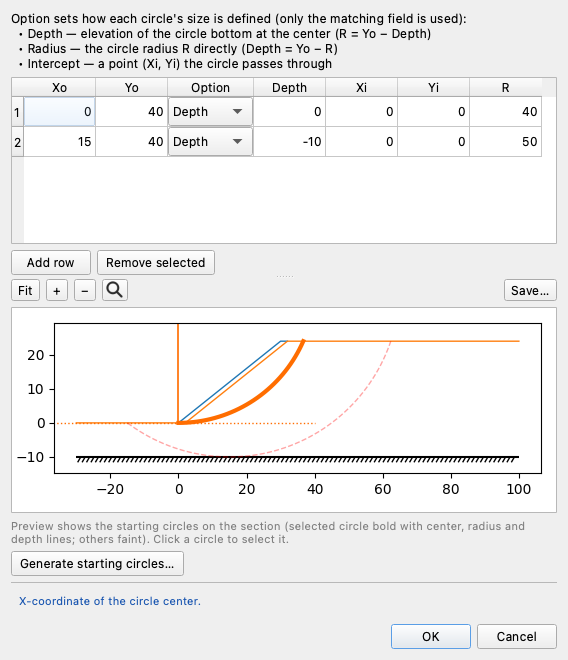
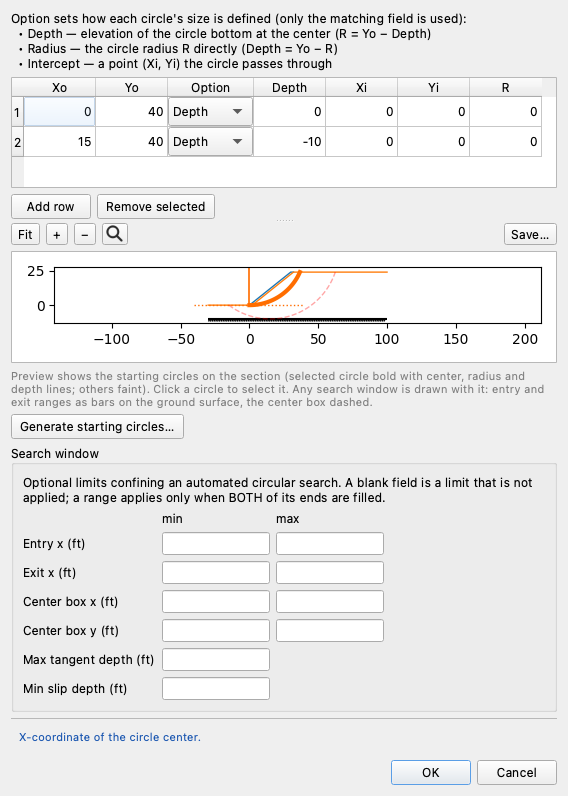
tutorials: the cold-read review of the pass edits, on the LEM, seepage, combined and workflow pages
- Show parameters for: each editor keeps its own setting between sessions, so
  every page with an editor shot says which toggles to tick and the shot shows
  exactly that. LEM-1 says where the toggles are; LEM-4 and LEM-5 tick LEM and
  FEM so their 14-column material block (with the worksheet's empty t_cut, E
  and nu) pastes into the sheet and the editor alike; LEM-12 sets Piles to
  LEM alone. LEM-5's shot no longer shows E and nu the table leaves blank.
- LEM-2 names the k = 0.15 surface's mass and the loads editor's Normal
  column; LEM-3's remove-and-undo step is complete; LEM-5 defines OMS; LEM-8
  shows R at 0 until OK computes it; LEM-9 and LEM-11 steps tightened;
  building_models lists piles.
- SEEP-1 says which tables paste and which are typed; SEEP-2's van Genuchten
  sentence is the shell's; COMBO-2 says what the unsolved-trials line counts;
  COMBO-3 quotes a real converged line and opens the Johnson file in order.
- W-3: the report link stands in its own sentence; Project title reopens on
  the file's name and Project number empty, as the dialog does.

Claude-Session: https://claude.ai/code/session_01XjjT2aBxw8gY7EFdpoUcpj

diff --git a/tools/capture_tutorial_screenshots.py b/tools/capture_tutorial_screenshots.py
@@ -798,6 +798,19 @@ def _all_usages(dlg):
     return dlg
 
 
+def _lem_and_fem(dlg):
+    """Tick LEM and FEM, untick Seepage and Reliability.
+
+    For LEM-4 and LEM-5, whose material tables carry the worksheet's empty
+    ``t_cut``, ``E`` and ``nu`` columns so that one block pastes into both the
+    sheet and the editor: the editor shows those columns only with FEM ticked,
+    and the page tells the reader to set exactly these two.
+    """
+    for tag, cb in (getattr(dlg, "_toggles", None) or {}).items():
+        cb.setChecked(tag in ("lem", "fem"))
+    return dlg
+
+
 def _lem_only(dlg):
     """Untick every non-LEM usage toggle so the capture shows the LEM problem.
 
@@ -1075,7 +1088,7 @@ def lem04_materials():
     """
     from studio.editors import MaterialsEditor
 
-    return _grab(_mat_table(_all_usages(MaterialsEditor().build(_load(LEM04), None))),
+    return _grab(_mat_table(_lem_and_fem(MaterialsEditor().build(_load(LEM04), None))),
                  "lem04_studio_materials.png")
 
 
@@ -1108,10 +1121,19 @@ def lem04_run_lem():
 
 def lem05_materials():
     """The materials editor, table view, on LEM-5's four soils — the seam of soft
-    clay among them, told from the sand fill by its cohesion."""
+    clay among them, told from the sand fill by its cohesion.
+
+    The completed file carries stiffnesses the page's table leaves empty (E, ν
+    and a zero t_cut, which the limit equilibrium run never reads). They are
+    cleared here, so the shot shows the rows the reader pastes from the table,
+    not the saved model's extra cells.
+    """
     from studio.editors import MaterialsEditor
 
-    return _grab(_mat_table(_all_usages(MaterialsEditor().build(_load(LEM05), None))),
+    d = _load(LEM05)
+    d = dict(d, materials=[dict(m, E=0.0, nu=0.0, t_cut=None)
+                           for m in d["materials"]])
+    return _grab(_mat_table(_lem_and_fem(MaterialsEditor().build(d, None))),
                  "lem05_studio_materials.png")
 
 
@@ -1209,11 +1231,18 @@ def lem08_dloads():
 
 def lem08_circles():
     """The circles editor holding LEM-8's two starting circles, typed rather than
-    generated: one tangent to the toe elevation, one to the bottom of the model."""
+    generated: one tangent to the toe elevation, one to the bottom of the model.
+
+    Photographed as the step leaves it, before **OK**: the editor computes ``R``
+    only when OK applies the rows, so a typed or pasted row shows R = 0 until
+    then. The file stores the computed radii, and they are cleared here so the
+    shot shows the reader's screen rather than the saved model.
+    """
     from studio.editors import CirclesEditor
 
-    return _grab(CirclesEditor().build(_load(LEM08), None),
-                 "lem08_studio_circles.png")
+    d = _load(LEM08)
+    d = dict(d, circles=[dict(c, R=0.0) for c in d["circles"]])
+    return _grab(CirclesEditor().build(d, None), "lem08_studio_circles.png")
 
 
 def lem08_run_lem():

diff --git a/docs/tutorials/w03_report.md b/docs/tutorials/w03_report.md
@@ -121,12 +121,10 @@ its contents page just lists the headings without numbers.
 
 ## What the document contains {#what-the-document-carries}
 
-The report runs to 28 pages and 24 figures:
-
-(The linked copies below have their figures at reduced resolution to keep the
-download small; a report you generate yourself has them at full
-resolution.)
-[w03_report.docx](files/w03_report.docx). Its sections follow the analyses, with
+The report runs to 28 pages and 24 figures. A copy is linked here,
+[w03_report.docx](files/w03_report.docx), with its figures at reduced resolution
+to keep the download small; a report you generate yourself has them at full
+resolution. Its sections follow the analyses, with
 seepage ahead of the one stability section that consumes its answer. Both methods
 sit inside that section, §4.5 Bishop's Simplified Method and §4.6 Spencer's
 Method, under a §4.4 *Factors of Safety* table that lists the two side by side and
@@ -157,9 +155,10 @@ in it.
 
 Spencer's method solves for a pair — a factor of safety and an interslice
 inclination θ — at which both the force sum and the moment sum vanish, so it
-prints both sums rather than a single quotient. On the page after this one in
-the linked report, they close at F = 1.257 and θ = −16.28°, with residuals of
-−1.000e-11 and 5.355e-09 against terms coming to 371418 and 84337150. Every number
+prints both sums rather than a single quotient. In the linked report they are on
+the page after the one shown above, and they close at F = 1.257 and θ = −16.28°,
+with residuals of −1.000e-11 and 5.355e-09 against terms coming to 371418 and
+84337150. Every number
 is printed at a precision the factor of safety can be rebuilt from: Bishop divides
 its own two sums, 485408 and 394283, and prints the 1.231 they give. A report you
 generate yourself closes at the same F and θ, with slightly different residuals
@@ -231,10 +230,10 @@ Under **Output**, click **Browse…** on the **Template** row and choose
 path. Change **Save as** to `w03_report_example_template.docx` so the first report
 survives. Under **Limit equilibrium analysis**, untick **Bishop's Simplified
 Method**, leaving
-Spencer's finished search as the only stability run. Under **Title page**, enter
-the **Project title** and **Project number** again, because the dialog does not
-keep them between openings, and set **Organization** to `ACME Geotechnical`. Click
-**Generate**.
+Spencer's finished search as the only stability run. Under **Title page**,
+**Project title** reopens on a name made from the file name and **Project number**
+reopens empty; enter both again as before, and set **Organization** to
+`ACME Geotechnical`. Click **Generate**.
 
 ![The first body page of the report built on the example template: the firm's name in the head, the firm's line in the foot](images/w03_page_template.png){width=620}
 

diff --git a/docs/tutorials/lem11_reliability.md b/docs/tutorials/lem11_reliability.md
@@ -92,9 +92,8 @@ the depth of water above each point.
 
 Open **Materials** and switch to **List view**. Above the form, the row of
 checkboxes labeled **Show parameters for:** sets which inputs the editor
-shows. Set the toggles to **LEM** and **Reliability**. **Reliability** is the one
-that is off by default, and ticking it puts a **± σ** box beside every parameter
-that can have a standard deviation:
+shows. Set the toggles to **LEM** and **Reliability**. **Reliability** puts a
+**± σ** box beside every parameter that can have a standard deviation:
 
 ![The clay with its standard deviations](images/lem11_studio_materials.png)
 
@@ -509,13 +508,12 @@ is uncertain over an interval nearly four times wider, and because each
 contribution enters the variance squared, the wider interval dominates.
 
 The Pareto is Taylor-series arithmetic, and it runs its own five solves no
-matter which reliability engine was used last. It is not the only way to ask
-the question: the same **Plot type** list offers
-`Monte Carlo rank correlation (σ)`,
-which runs a Monte Carlo campaign and ranks the parameters by how strongly
-each sampled input tracks the factor of safety across all the realizations.
-Set **MC samples** to `10000`, the count the Monte Carlo runs above used, and
-run it. The same ranking comes back:
+matter which reliability engine was used last. A Monte Carlo campaign can rank
+the parameters too. Open **Run → Parametric…** again, set **Plot type** to
+`Monte Carlo rank correlation (σ)` and **MC samples** to `10000`, the count the
+Monte Carlo runs above used, and click **Run**. The plot ranks the parameters by
+how strongly each sampled input tracks the factor of safety across all the
+realizations, and the same ranking comes back:
 
 ![The Monte Carlo rank-correlation bars](images/lem11_rank.png){width=800}
 

diff --git a/docs/tutorials/combo03_fs_vs_time.md b/docs/tutorials/combo03_fs_vs_time.md
@@ -312,7 +312,7 @@ Applying the file's search window: min_slip_depth.
 Searching for the critical circular surface with SPENCER…
 [↻ iteration 9] center=(5.20, 65.90), FS=1.5134, grid=0.2996
 [↻ iteration 10] center=(5.20, 65.90), FS=1.5134, grid=0.1498
-[✓ converged] Iter=10, FS=1.5134 (ΔFS<0.0005) at (x=5.20, y=65.90, depth=0.02)
+[✓ converged] Iter=10, FS=1.5134 (ΔFS<0.0005) at (x=5.20, y=65.90, depth=0.02), elapsed time=3.44 seconds
 Critical FS = 1.513
 Sliding mass = 6,237.1 kN/m over 60.20 m of failure surface
 ```
@@ -525,13 +525,12 @@ the seepage boundary sets, the pool schedule and the stage times on it.
 ### Opening the model
 
 Download [xslope_johnson_fs_time.xlsx](files/xslope_johnson_fs_time.xlsx) and
-open it with **File → Open…**. Studio opens it with the mode strip on **FEM**;
-click **LEM** (`Ctrl+1`). Its three
-companions — `xslope_johnson_fs_time_mesh.json`, `xslope_johnson_fs_time_tseep.csv`
-and `xslope_johnson_fs_time_tseep_meta.json` — sit in the same folder as the workbook and Studio
-reads them on open, so the mesh and the seepage solution are already loaded. In
-**LEM** the inputs
-view draws that mesh behind the zones.
+open it with **File → Open…**. Its three companions —
+`xslope_johnson_fs_time_mesh.json`, `xslope_johnson_fs_time_tseep.csv` and
+`xslope_johnson_fs_time_tseep_meta.json` — sit in the same folder as the workbook,
+and Studio reads them on open, so the mesh and the seepage solution are already
+loaded. Studio opens this file with the mode strip on **FEM**; switch it to
+**LEM** (`Ctrl+1`). In **LEM** the inputs view draws the mesh behind the zones.
 
 ![The Johnson Reservoir dam in LEM mode, the mesh behind it](images/combo03_rapid_inputs.png){width=1000}
 

diff --git a/docs/tutorials/seep01_sheetpile.md b/docs/tutorials/seep01_sheetpile.md
@@ -193,12 +193,12 @@ Treating the ends as no-flow is a judgment call: the section is drawn far
 enough either side of the wall that the flow has become horizontal by the
 time it reaches them, so nothing crosses.
 
-These tables contain the entire model. The vertex and boundary tables are laid
-out exactly as their destinations are — the template's worksheets and Studio's
-editors, same columns in the same order. Select one of those blocks of values,
-copy, and paste it straight into the sheet or editor rather than retyping it. Type
-the material row instead: on the `mat` sheet its `name` and seepage columns are
-far apart, and Studio's editor has no `mat` column.
+These tables contain the entire model. The vertex table is laid out exactly as
+its destination is — the `profile` worksheet and Studio's profile editor, same
+columns in the same order — so select its block of values, copy, and paste it
+straight into the sheet or editor. Type the material properties and the two
+boundary blocks instead: the worksheets and the editors hold those values in
+separate cells and fields, not in the tables' layout.
 
 ---
 
@@ -318,8 +318,8 @@ mesh time. Leave them however they stand.
 ### 2. The `mat` worksheet
 
 The `mat` sheet is wide, and a seepage-only material fills one band of it: the
-**Seepage** band at columns AG–AQ. Enter (or copy-paste) the material properties
-from the table above into the first row of the table, row 11:
+**Seepage** band at columns AG–AQ. Type the material properties from the table
+above into the first row of the table, row 11:
 
 ![The seepage band of the finished mat worksheet](images/seep01_sheet_mat.png)
 

diff --git a/docs/tutorials/lem05_weak_layer_noncircular.md b/docs/tutorials/lem05_weak_layer_noncircular.md
@@ -308,11 +308,14 @@ We start with **File → New** and work down the **Inputs** tree.
 
 ### 1. Materials, profile lines and water
 
-Click **Materials**, and in **Table view** press **Add row** four times and
+Click **Materials** and set the **Show parameters for:** toggles to **LEM** and
+**FEM**. The table above includes the worksheet's empty `t_cut`, `E` and `nu`
+columns, and the editor shows those only with **FEM** ticked, so this setting
+lets the table paste as one block. In **Table view**, press **Add row** four times and
 enter (or copy-paste) the four soils in the order the table above lists them —
 the row order fixes the Mat IDs. Check the seam's row: `Soft Clay` is the only one with cohesion, and the only one whose `u` is `none`:
 
-![The materials editor on this problem's four soils](images/lem05_studio_materials.png){width=1166}
+![The materials editor on this problem's four soils](images/lem05_studio_materials.png){width=1162}
 
 Then **Profile lines**: set **Max depth (bottom boundary elevation):** to `-10`,
 and press **Add line** four times, each line taking its **Material:** and its
@@ -467,7 +470,7 @@ the black line against the intended shape before using the number on it.
 
 ### Which methods support non-circular surfaces {#which-methods-support-non-circular-surfaces}
 
-In the **Method** list of **Run LEM…**, the Ordinary Method of Slices and
+In the **Method** list of **Run LEM…**, the Ordinary Method of Slices (OMS) and
 Bishop's Simplified are dimmed on a non-circular surface and cannot be chosen.
 Hold the pointer over the OMS entry to read why:
 

diff --git a/docs/tutorials/lem02_loads_on_the_crest.md b/docs/tutorials/lem02_loads_on_the_crest.md
@@ -58,10 +58,10 @@ carries nothing. **A distributed load stops where its points stop** — the
 intensity is not spread over the rest of the crest, and it is not tapered at the
 ends unless you enter a point saying so.
 
-The table above is laid out exactly as the `dloads` worksheet (**X**, **Y**,
-**N**) and Studio's loads editor (**X**, **Y**, **Normal**), one point per row. Select the two rows
-of values, copy, and paste them straight into the sheet or editor rather than
-retyping them.
+The table above has the three columns of the `dloads` worksheet, one point per
+row. Studio's loads editor has the same three columns, with the third labeled
+**Normal** instead of **N**. Select the two rows of values, copy, and paste them
+straight into the sheet or editor rather than retyping them.
 
 ---
 
@@ -318,8 +318,9 @@ With the crest surcharge back in place:
 
 **k is unconditionally driving.** It is applied in the direction that reduces the
 factor of safety, and it acts on the whole sliding mass rather than on the loaded
-strip: at k = 0.15 that is 0.15 × 41,883 = 6,282 lb/ft of horizontal force,
-against the 7,500 lb/ft the surcharge itself weighs. Pushed sideways rather than
+strip. The critical surface at k = 0.15 carries 41,883 lb/ft of soil, so the
+horizontal force is 0.15 × 41,883 = 6,282 lb/ft, against the 7,500 lb/ft the
+surcharge itself weighs. Pushed sideways rather than
 pressed down, the same order of force costs less — 0.144 off the factor of
 safety, where the surcharge took 0.358.
 

diff --git a/docs/tutorials/lem09_tieback_wall.md b/docs/tutorials/lem09_tieback_wall.md
@@ -467,9 +467,10 @@ to `Non-circular`, and raise the slice count to 60:
 
 **FS = 1.469** with Janbu's correction factor f₀ = 1.024 applied, 1.434 without
 it, and 1.439 with Spencer's method.
-[Verification problem VP49](../verification/rocscience.md#vp49) records the 1.469
-and the 1.439 against the published solutions. The wedge carries 157,936 lb/ft on a 90.1 ft base, 33%
-more soil than the searched surface, and takes the same 35,570 lb/ft from the
+[Verification problem VP49](../verification/rocscience.md#vp49) compares the 1.469
+and the 1.439 with the published solutions. The wedge carries 157,936 lb/ft on a
+90.1 ft base, 33% more soil than the searched surface, and takes the same
+35,570 lb/ft from the
 anchors, since it too crosses both outside their development lengths. Its
 lower leg leaves the toe at 42° against the search's 49°. A specified surface is a
 trial surface, not necessarily the critical one, which is why the search comes
@@ -479,8 +480,8 @@ first.
 
 Now we take both anchors out and search the same wall again — same soils, same
 pile, same starting points, a separate search with its own critical surface. In
-**Run LEM…**, set **Analysis** back to `Auto search`, **Surface** to
-`Non-circular` and the slice count back to 40:
+**Run LEM…**, set **Analysis** back to `Auto search` and the slice count back to
+40:
 
 ![Janbu on the wall with no tiebacks](images/lem09_solution_bare.png){width=1000}
 

diff --git a/docs/tutorials/lem03_layered_slope.md b/docs/tutorials/lem03_layered_slope.md
@@ -294,10 +294,10 @@ for the fastest read on which mechanism this section has. **The table below
 collects three separate runs; the program does not print it.** Each row is a run
 you can repeat with **Run LEM…** and **Analysis** = `Single surface`, which solves
 the first circle in the **Circles** list. To solve another circle, select the rows
-above it in the **Circles** editor, press **Remove selected**, run, and then undo
-the removal. The toe circle is in the model only if you generated the circles in
-Studio. The factor of safety is the number on that run's solution plot, and the
-weight is ΣW summed over the run's slices:
+above it in the **Circles** editor, press **Remove selected** and then **OK**, run,
+and choose **Edit → Undo** to put the removed rows back. The factor of safety is
+the number on that run's solution plot, and the weight is ΣW summed over the
+run's slices:
 
 | Circle | Depth | Factor of safety | Weight of the sliding mass (lb/ft) |
 | --- | :---: | :---: | :---: |

diff --git a/docs/tutorials/seep02_johnson_dam.md b/docs/tutorials/seep02_johnson_dam.md
@@ -795,8 +795,8 @@ defended from measurements is the one to use.
 The 4.6% gap comes from the floor. The linear front holds *k<sub>r</sub>* at its
 floor of 0.01 through the deep unsaturated zone, far above the conductivity the
 other two models leave there — and rerunning it with *kr<sub>0</sub>* lowered to
-10<sup>−4</sup>, which van Genuchten's curve is already below at five feet of
-suction, brings its discharge to 1.8707, against van Genuchten's 1.8641 and Gardner's
+10<sup>−4</sup>, which the shell's van Genuchten curve is already below at five
+feet of suction, brings its discharge to 1.8707, against van Genuchten's 1.8641 and Gardner's
 1.8654: 93% of the gap closes on that one parameter. The curve's shape barely matters by
 comparison — sweeping *h<sub>0</sub>* twentyfold moves the discharge by the same
 4.6% — because on a dam whose unsaturated zone stands tens of feet above the

diff --git a/docs/tutorials/lem12_piles.md b/docs/tutorials/lem12_piles.md
@@ -70,11 +70,9 @@ it beside the bar.
 
 The two pile rows are defined by two rows of the piles sheet, which we read
 before running anything. Open
-**Piles** in the **Inputs** tree and press **Table view**. Its columns match
-the piles worksheet, all sixteen of them. **Show parameters for:** opens with
-both **LEM** and **FEM** ticked; untick **FEM** and the five columns only the
-finite element engine reads (`E`, `I`, `Area`, `Head`, `Tip`) go away, leaving
-the eleven a limit equilibrium run uses:
+**Piles** in the **Inputs** tree, set its **Show parameters for:** toggles to
+**LEM** alone, and press **Table view**. The table then has the eleven columns of
+the piles worksheet that a limit equilibrium run uses, in the sheet's order:
 
 ![The two pile rows as entered in the file](images/lem12_studio_piles_table.png)
 

diff --git a/docs/tutorials/lem01_simple_embankment.md b/docs/tutorials/lem01_simple_embankment.md
@@ -250,9 +250,10 @@ Click **OK**.
 Here we name each material in the model and enter its properties — unit weight
 and strength parameters. Everything else will reference the material by its ID,
 which is why it comes first. This problem has one material. Click **Materials**.
-The editor opens on **Table view**, a material per row. Set the **Show parameters
-for:** toggles to **LEM** alone, press **List view** for the per-material form,
-then **Add**:
+The editor opens on **Table view**, a material per row. Above the table, the
+**Show parameters for:** checkboxes set which inputs the editor shows. Tick
+**LEM** and untick the others, then press **List view** for the per-material
+form, and **Add**:
 
 1. **Name** = `soil`.
 2. **γ** = `125`.
